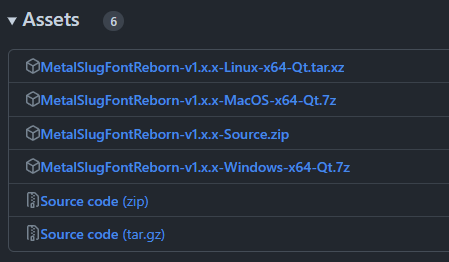
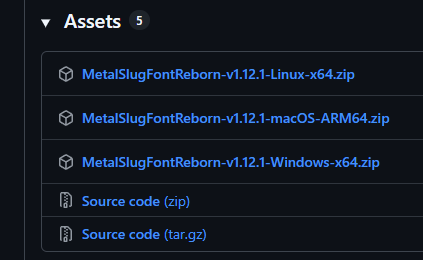
Update preview program images

Changed region(s): [[0.0, 0.1846, 1.0, 0.9846], [0.0, 0.0308, 0.3381, 0.1231]]

diff --git a/Docs/INSTALL-LINUX.md b/Docs/INSTALL-LINUX.md
@@ -20,7 +20,7 @@
    - Enter the text you want to convert to the metal slug font.
 
 5. **Generate the Image:**
-   - Click `Generate And Save Image` to create the stylized image.
+   - Click `Generate Image` to create the stylized image.
 
 6. **View the Result:**
    - The program will save the stylized image. By default, it will be saved on your desktop. You can choose a different location if desired.

diff --git a/Docs/INSTALL-MACOS.md b/Docs/INSTALL-MACOS.md
@@ -20,7 +20,7 @@
    - Enter the text you want to convert to the metal slug font.
 
 5. **Generate the Image:**
-   - Click `Generate And Save Image` to create the stylized image.
+   - Click `Generate Image` to create the stylized image.
 
 6. **View the Result:**
    - The program will save the stylized image. By default, it will be saved on your desktop. You can choose a different location if desired.

diff --git a/Docs/INSTALL-WINDOWS.md b/Docs/INSTALL-WINDOWS.md
@@ -20,7 +20,7 @@
    - Enter the text you want to convert to the metal slug font.
 
 5. **Generate the Image:**
-   - Click `Generate And Save Image` to create the stylized image.
+   - Click `Generate Image` to create the stylized image.
 
 6. **View the Result:**
    - The program will save the stylized image. By default, it will be saved on your desktop. You can choose a different location if desired.

diff --git a/Docs/PROGRESS.md b/Docs/PROGRESS.md
@@ -5,7 +5,7 @@ This document provides an overview of the latest updates, milestones, and upcomi
 ## Current Status
 
 - **Stable Version**: 1.12.1
-- **Release Date**: 2025-11-01
+- **Release Date**: 2025-11-16
 - **Maintainer**: Mitra-88
 
 ## Achieved Milestones
